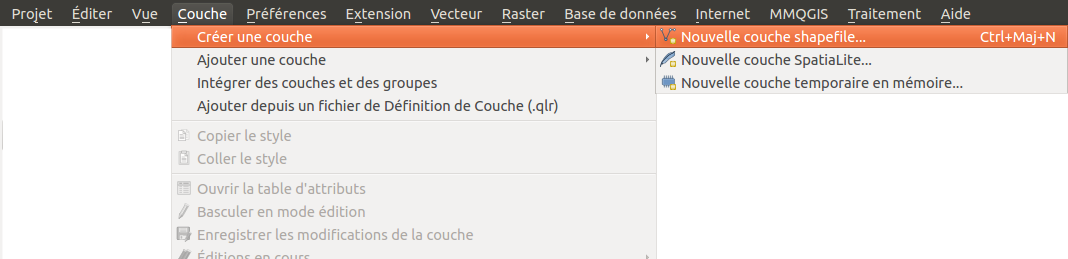
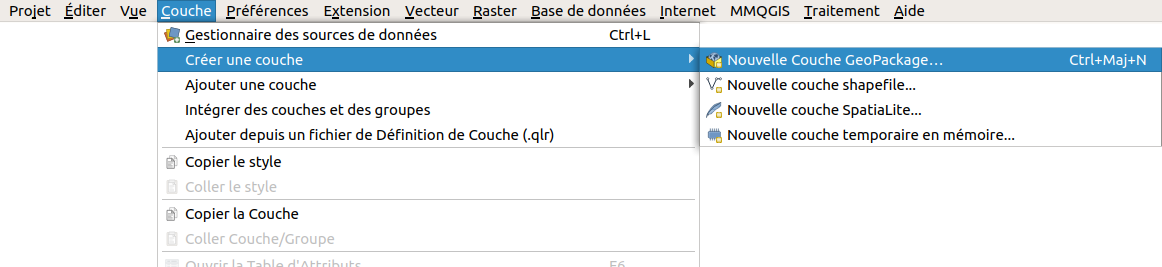
update qgis3

diff --git a/05_01_creation_couche.php b/05_01_creation_couche.php
@@ -14,14 +14,8 @@
 		<div class="main">
 			<h2>V.1  Création d'une couche vide</h2>
 				<ul class="listetitres">
-					<li><a href="#V11">Choix du type (point, ligne, polygone) et du SCR</a></li>
-					<li><a href="#V12">Définition des colonnes de la table attributaire</a>
-						<ul class= "listesoustitres">
-							<li><a href="#V12a" >Ajout d'une colonne</a></li>
-							<li><a href="#V12b" >Suppression d'une colonne</a></li>
-						</ul>
-					</li>
-					<li><a href="#V13">Enregistrement de la couche</a></li>
+					<li><a href="#V11">Création d'une couche vide</a></li>
+					<li><a href="#V12">Vérification</a></li>
 				</ul>
 				<br>
 				
@@ -32,19 +26,22 @@
 					<img src="illustrations/tous/5_1_principe_numerisation.png" alt="carte de l'île d'Oahu avant et après numérisation des bâtiments" width="100%">
 				</a>
 			</figure>
-			<p>Il sera ensuite plus facile de manipuler des données vecteurs, pour par exemple compter le nombre d'écoles, et si on a numérisé également les routes travailler sur l'accessibilité des ces écoles...</p>
+			<p>Il sera ensuite plus facile de manipuler des données vecteurs, pour par exemple visualiser la répartition spatiale des écoles, et si on a numérisé également les routes travailler sur l'accessibilité des ces écoles...</p>
 			<p>Ces écoles et postes sont représentées dans la carte sous forme de points bleus ou rouges :</p>
-			<img src="illustrations/tous/5_1_leg_pts.png" alt="extrait de la légende de la carte d'Oahu correspondant aux écoles et postes" width="150">			
+			<figure>
+			    <img src="illustrations/tous/5_1_leg_pts.png" alt="extrait de la légende de la carte d'Oahu correspondant aux écoles et postes" width="150" hspace="50">
+			    <img src="illustrations/tous/5_1_ex_pts.png" alt="extrait de la carte d'Oahu avec écoles et postes" width="200">
+			</figure>
 			
 			<h3><a class="titre" id="V11">Choix du type (point, ligne, polygone) et du SCR</a></h3>
 			
 				<p>La première étape consiste à créer une couche vierge, qui accueillera les données que nous allons créer.</p>
 				<div class="manip">
-					<p>Dans QGIS, ouvrez un nouveau projet</p>
+					<p>Dans QGIS, ouvrez un nouveau projet.</p>
 					<p><img class="icone" src="illustrations/tous/5_1_nouvellecouche_icone.png" alt="icône nouvelle couche" >Rendez-vous dans le 
-						<a class="thumbnail_bottom" href="#thumb">Menu Couche &#8594; Créer une couche &#8594; Nouvelle couche shapefile...
+						<a class="thumbnail_bottom" href="#thumb">Menu Couche &#8594; Créer une couche &#8594; Nouvelle couche GeoPackage...
 							<span>
-								<img src="illustrations/tous/5_1_nouvellecouche_menu.png" alt="Menu Couche, Nouveau, Nouvelle couche shapefile.." height="200" >
+								<img src="illustrations/tous/5_1_nouvellecouche_menu.png" alt="Menu Couche, Nouvelle couche GeoPackage.." height="200" >
 							</span>
 						</a>					
 					ou bien cliquez sur l'icône correspondante (vous pouvez aussi utiliser le raccourci clavier Ctrl+Maj+N).</p>
@@ -52,80 +49,50 @@
 					<p>La fenêtre suivante apparaît :</p>
 					<figure>
 						<a href="illustrations/tous/5_1_nouvellecouche_fenetre.png" >
-							<img src="illustrations/tous/5_1_nouvellecouche_fenetre.png" alt="fenêtre de création d'une nouvelle couche" width="450">
+							<img src="illustrations/tous/5_1_nouvellecouche_fenetre.png" alt="fenêtre de création d'une nouvelle couche" width="90%">
 						</a>
 					</figure>
 					<ul>
-						<li><b>Type :</b> choisir Point</li>
+						<li><b>Base de données :</b> un fichier GeoPackage étant en réalité une base de données, il s'agit ici de dire quelle base sera utilisée, existante ou non. Nous considérerons ici que un fichier GeoPackage = une couche, et nous allons donc créer une nouvelle base que nous utiliserons de la même manière qu'un fichier shapefile (sans utiliser la possibilité offerte par ce format de stocker plusieurs couches dans un seul fichier) : cliquer sur le bouton <b>...</b> et spécifiez le nom et l'emplacement de la couche qui sera créée</li>
+						<li><b>Nom de la table :</b> ce champ est rempli automatiquement en fonction du nom spécifié ci-dessus</li>
+						<li><b>Type de géométrie :</b> Point</li>
 						<li><b>SCR :</b> afin que cette couche soit dans le même système que la carte, vérifier que le SCR soit bien le WGS84</li>
 					</ul>
-					<p>Ne cliquez pas encore sur OK...</p>
-				</div>
-				
-			<h3><a class="titre" id="V12">Définition des colonnes de la table attributaire</a></h3>
-				
-				
-				<p>Vous pouvez ensuite choisir les champs que contiendra la table attributaire, c'est-à-dire les colonnes de la table. Trois types de champs sont possibles : texte, entier et décimal (nombre à virgule).</p>
-				<p>Ici, nous allons créer une couche avec un seul champ dans la table, qui renseignera le type de bâtiment (ce champ aura donc deux valeurs possibles : école ou poste).</p>
-				<p>Il sera toujours possible d'<a href="07_01_creation_suppression.php">ajouter ou de supprimer des champs</a> par la suite !</p>
-				
-				<h4><a class="titre" id="V12a">Ajout d'une colonne</a></h4>
-				
-					<div class="manip">
-						<p>Pour ajouter une colonne :</p>
-						<figure>
-							<a href="illustrations/tous/5_1_nouvel_attribut.png" >
-								<img src="illustrations/tous/5_1_nouvel_attribut.png" alt="ajout d'un nouvel attribut" width="450">
-							</a>
-						</figure>
-						<ul>
-							<li class="espace"><b>Nom :</b> ce sera le nom de la colonne,  tapez par exemple <b>type</b></li>
-							<li class="espace"><b>Type :</b> le type de données que contiendra la champ. Ici, <b>données texte</b> permettra de taper du texte dans cette colonne</li>
-							<li class="espace"><b>Largeur :</b> pour un champ de type texte, ceci correspond au nombre maximum de caractères que pourra contenir le champ. Les mot "école" et "poste" comportent tous deux 5 caractères : une largeur de 5 suffirait ici. Pour avoir un peu de marge (supposons que l'on veuille par la suite ajouter un 3ème type de bâtiment), choisissons une largeur de <b>10</b>.</li>
-						</ul>
-						<p>Cliquez ensuite sur le bouton <b>Ajouter à la liste des champs</b> pour créer ce champ.</p>
-					</div>
-					
-				<h4><a class="titre" id="V12b">Suppression d'une colonne</a></h4>
-				
-					<div class="manip">
-						<p>Nous allons supprimer le champ <b>id</b> créé par défaut. Pour cela, sélectionnez la ligne du champ id et cliquez sur le bouton <b>Supprimer le champ</b>.</p>
-						<figure>
-							<a href="illustrations/tous/5_1_supprimer_champ.png" >
-								<img src="illustrations/tous/5_1_supprimer_champ.png" alt="suppression d'un champ" width="450">
-							</a>
-						</figure>
-						<p>Terminez en cliquant sur le bouton <b>OK</b> pour valider vos choix.</p>
-					</div>
-					
-			<h3><a class="titre" id="V13">Enregistrement de la couche</a></h3>
-				
-				<div class="manip">
-					<p>Dans la fenêtre qui apparaît alors, choisissez :</p>
+					<p>La partie suivante de la fenêtre va nous permettre de spécifier les colonnes qui seront présentes dans la table attributaire. Il sera toujours possible par la suite de supprimer ou d'ajouter de nouvelles colonnes.</p>
 					<ul>
-						<li class="espace">l'emplacement (par exemple dossier <b>TutoQGIS_05_Numerisation/donnees</b>)</li>
-						<li class="espace">et le nom : <b>batiments_oahu</b> (dans tous les cas le nom de doit comporter que des lettres non accentuées, des chiffres ou le caractère _ )</li>
+					   <li><b>Nom</b> : tapez <b>type</b> : un champ nommé type contiendra les valeurs école ou poste</li>
+					   <li><b>Type</b> : choisissez <b>Donnée texte</b> car ce champ contiendra du texte et non des nombres</li>
+					   <li><b>Longueur maximale :</b> pour un champ de type texte, ceci correspond au nombre maximum de caractères que pourra contenir le champ. Les mot "école" et "poste" comportent tous deux 5 caractères : une largeur de 5 suffirait ici. Pour avoir un peu de marge (supposons que l'on veuille par la suite ajouter un 3ème type de bâtiment), choisissons une largeur de <b>10</b>.</li>
+					   <li>cliquez sur le bouton <b>Ajouter à la liste des champs</b>...</li>
 					</ul>
-					<figure>
-						<a href="illustrations/tous/5_1_sauv_couche.png" >
-							<img src="illustrations/tous/5_1_sauv_couche.png" alt="sauvegarde de la couche" width="580">
-						</a>
-					</figure>
-					<p>Cliquez sur <b>Enregistrer</b> pour créer la couche. Elle est automatiquement ajoutée à QGIS.</p>
-					<p>Vous pouvez vérifier son SCR (propriétés de la couche, rubrique Général) :</p>
-					<figure>
-						<a href="illustrations/tous/5_1_scr.png" >
-							<img src="illustrations/tous/5_1_scr.png" alt="vérification du scr de la couche" width="600">
-						</a>
-					</figure>
-					<p>Vous pouvez également ouvrir sa table attributaire, qui ne doit contenir qu'une seule colonne nommée type et aucune ligne.</p>
-					<figure>
-						<a href="illustrations/tous/5_1_table_vide.png" >
-							<img src="illustrations/tous/5_1_table_vide.png" alt="table attributaire vide" width="600">
-						</a>
-					</figure>
+					<p>...Et enfin sur <b>OK</b>.</p>
+					<p>La couche est automatiquement ajoutée à QGIS.</p>
 				</div>
-				<p>Pour ajouter maintenant des données à cette couche, rendez-vous au chapitre suivant...</p>
+				
+				<h3><a class="titre" id="V12">Vérification</a></h3>
+				
+				    <div class="manip">
+				        <p>Allez dans les propriétés de la couche, rubrique <b>Information</b> :</p>
+				        <figure>
+    						<a href="illustrations/tous/5_1_informations.png" >
+    							<img src="illustrations/tous/5_1_informations.png" alt="informations sur la couche (emplacement, SCR...)" width="90%">
+    						</a>
+					   </figure>
+					   <p>Vous pouvez vérifier ici l'emplacement de votre couche (<b>chemin</b>), son <b>SCR</b>, le <b>nombre d'entités</b> qu'elle contient (à ce stade, 0).</p>
+					   <p>Ouvrez la table attributaire :</p>
+					   <figure>
+    						<a href="illustrations/tous/5_1_table_vide.png" >
+    							<img src="illustrations/tous/5_1_table_vide.png" alt="table attributaire de la couche batiments_oahu" width="90%">
+    						</a>
+					   </figure>
+					   <p>Cette table ne contien aucune ligne, ce qui est normal car la couche ne contient aucune entité.</p>
+					   <p>Par contre, elle contient 2 champs, <b>fid</b> et <b>type</b>, alors qu'on se serait attendu à ne voir que le champ type.</p>
+				 </div>
+				 
+				   <p><b>A quoi correspond ce champ fid ?</b> Le GeoPackage étant une base de données, une colonne d'identifiant unique (<a class="ext" target="_blank" href="https://fr.wikipedia.org/wiki/Cl%C3%A9_primaire">clé primaire</a>) est créée automatiquement lors de la création de la couche, afin d'identifier de manière unique chaque entité.</p>
+				   <p>Cette colonne sera remplie automatiquement, mais néanmoins modifiable par l'utilisateur (vous&nbsp;!). Si 2 entités ont la même valeur pour ce champ fid, un message d'erreur sera affiché et il ne sera pas possible d'enregistrer les modifications. Le plus simple est donc de laisser le logiciel gérer ce champ.</p>
+				   <p>Dans le chapitre suivant, nous allons ajouter des points à cette couche.</p>
+				   
 				
 				<br>
 				<a class="prec" href="05_00_numerisation.php">chapitre précédent</a>
